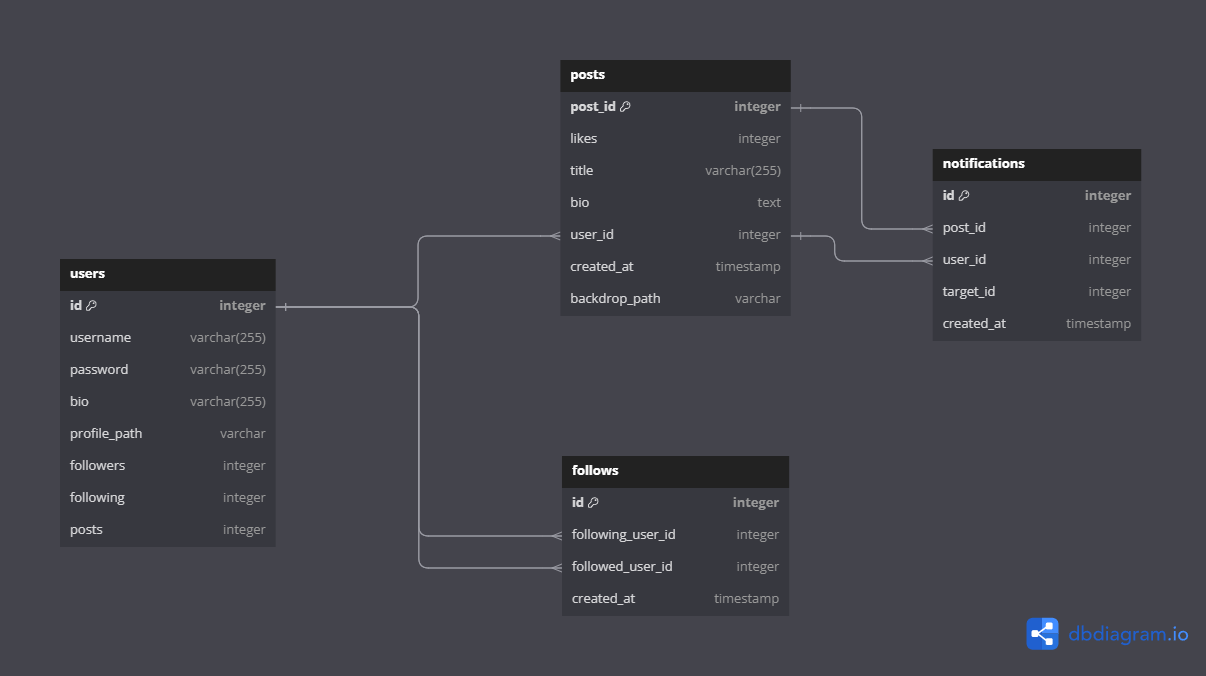
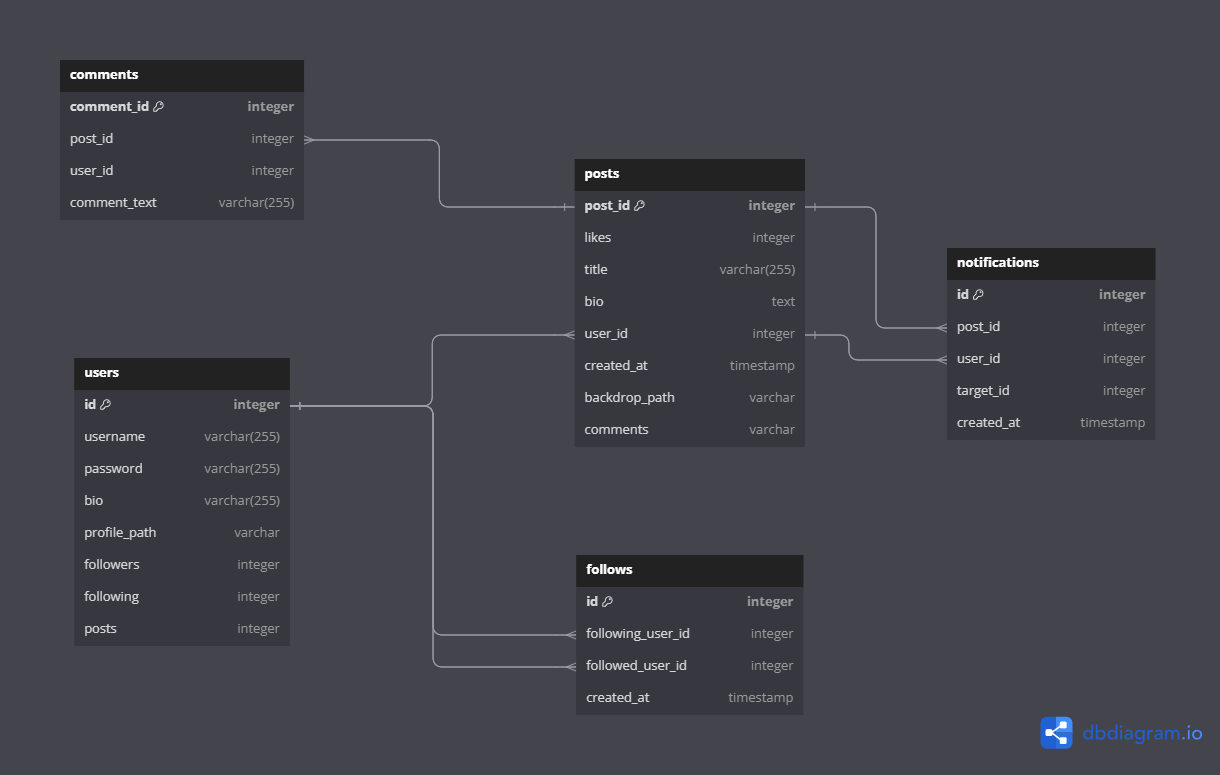
add table schema sql & png

diff --git a/KnownBugs.md b/KnownBugs.md
@@ -1,6 +1,6 @@
 Current Knwon Bugs:
 
-Insta Profile does not set the user attributes for the second+ interaction with the profile
+Insta Profile does not set the user attributes for the second+ interaction with the profile #Solved
 Some of the pictures do not save when uploaded as profile picturess
 
 TODO:
